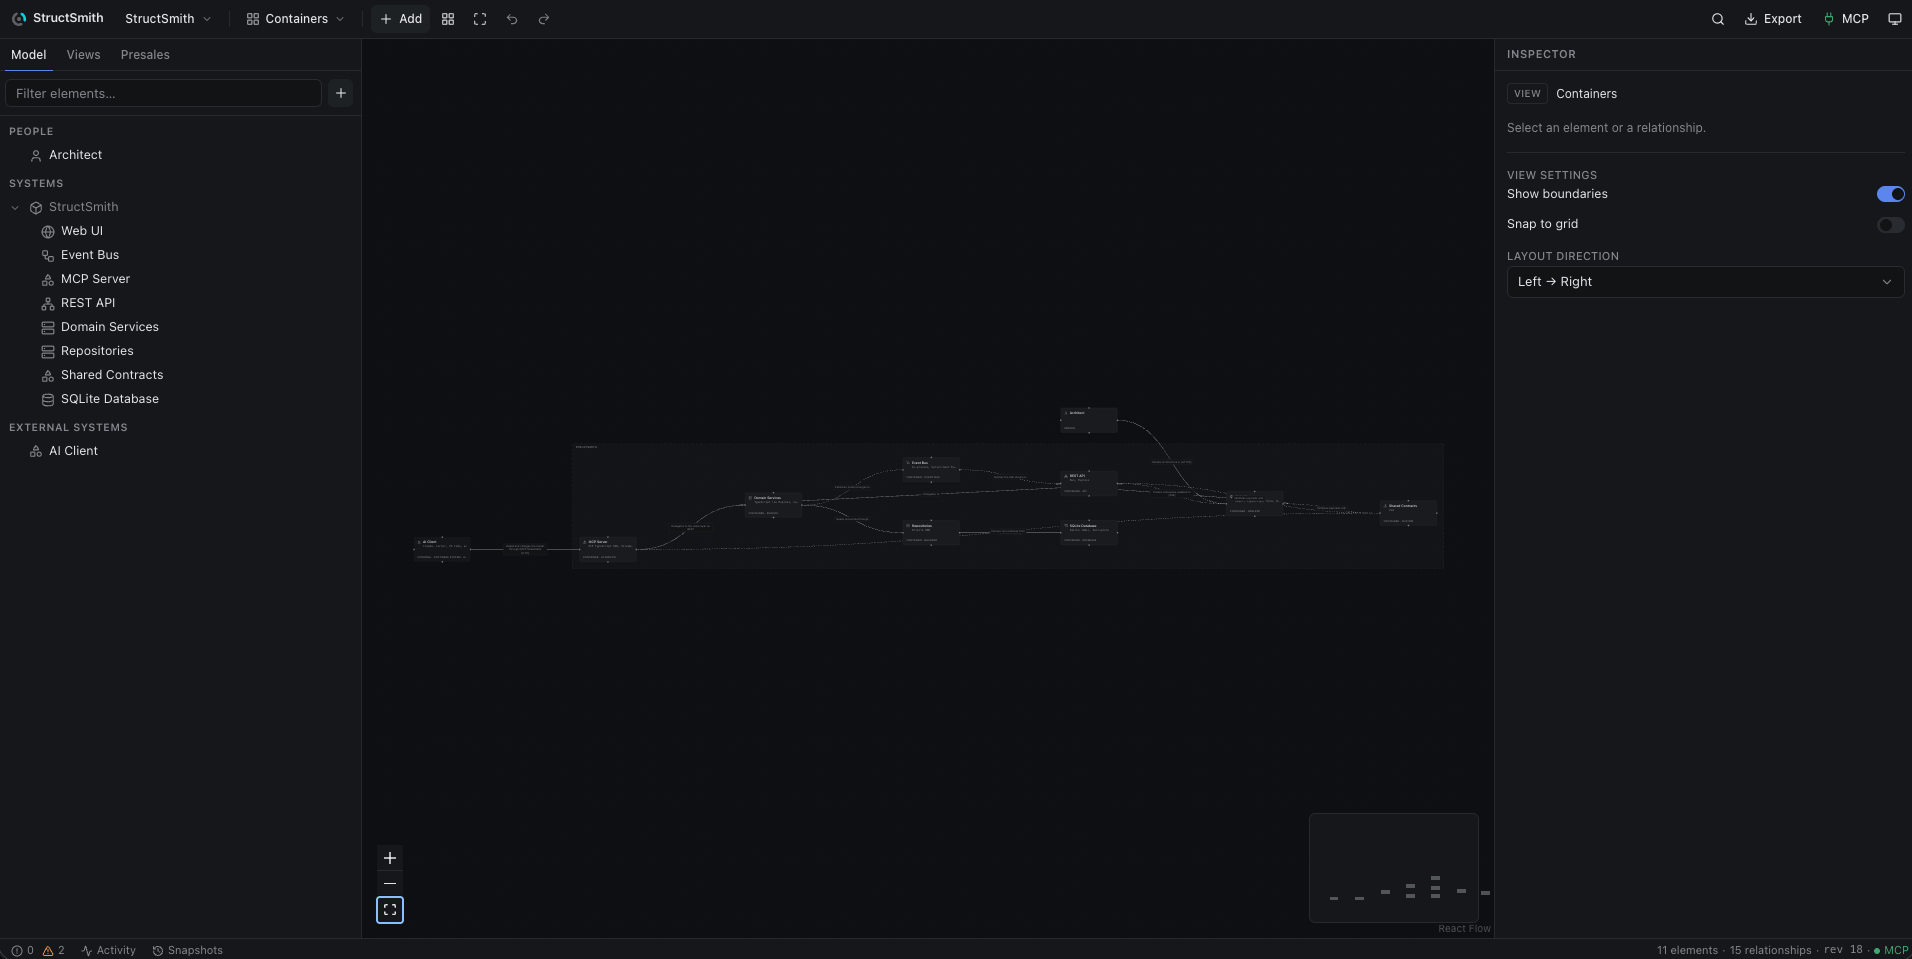
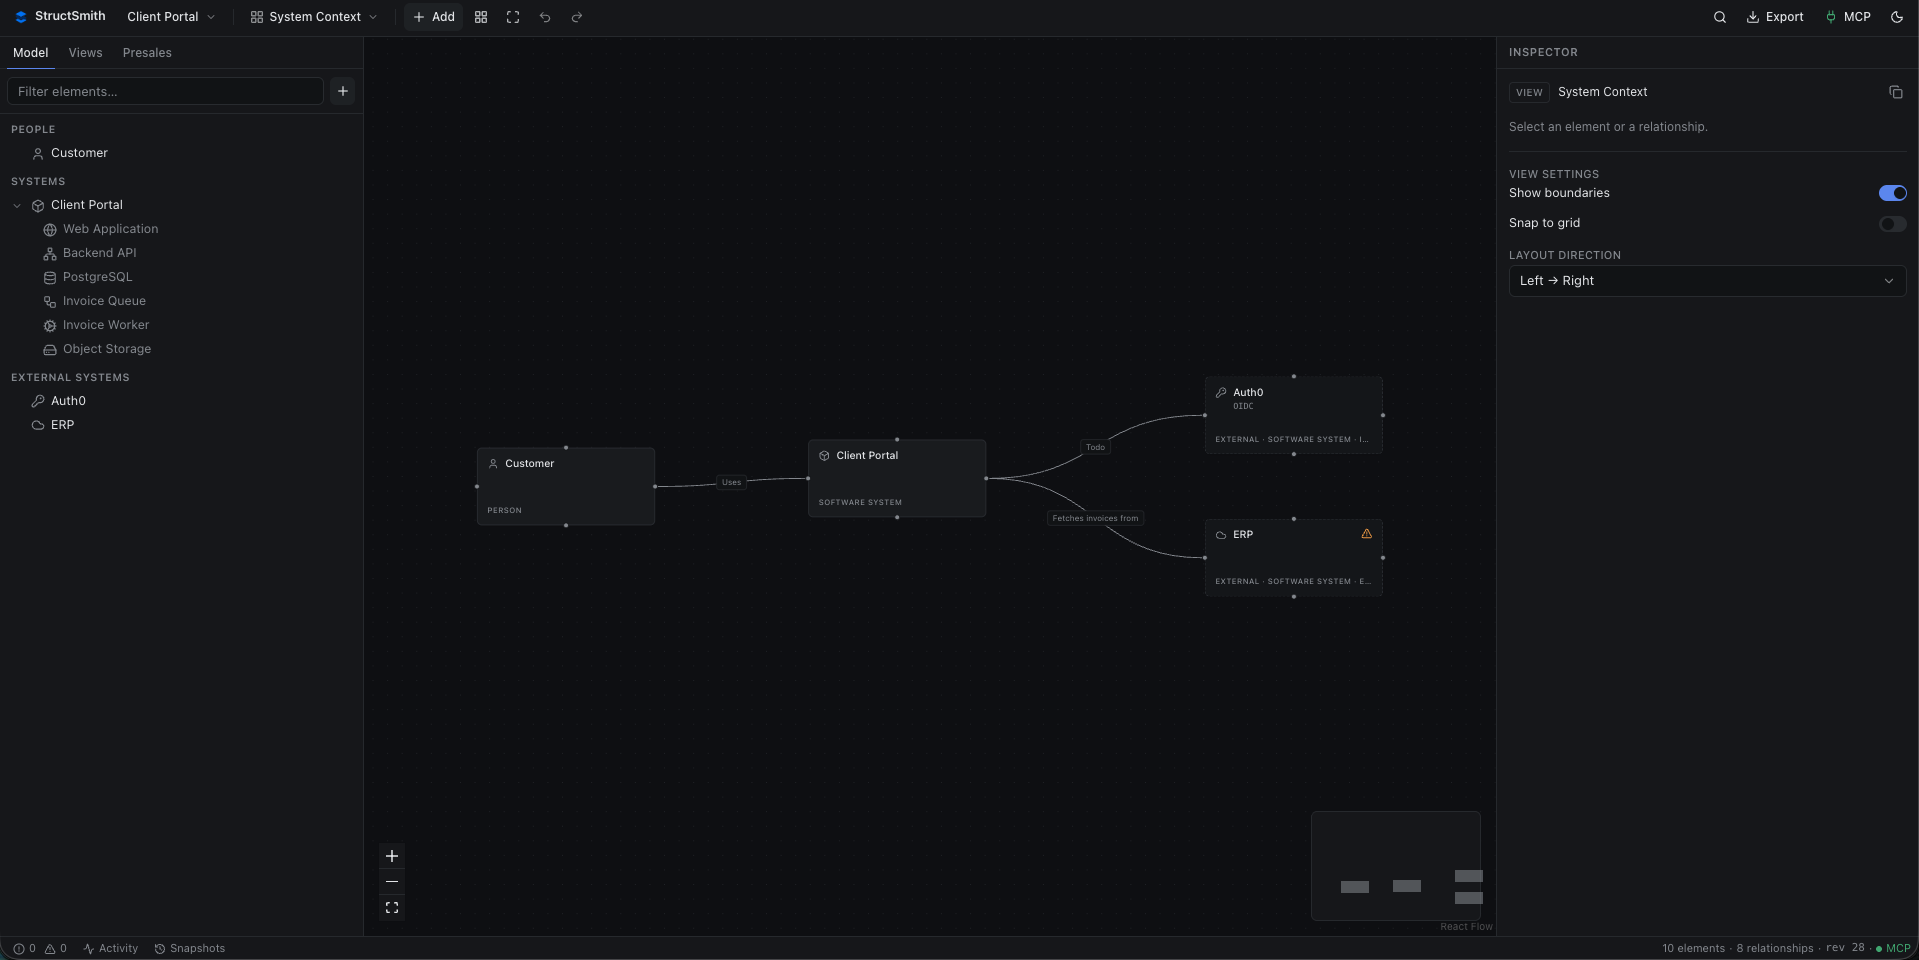
feat: refresh branding and backfill changelog

diff --git a/apps/web/src/components/Logo.tsx b/apps/web/src/components/Logo.tsx
@@ -1,62 +1,13 @@
-import { useId } from "react";
 import { cn } from "@/lib/utils";
 
-/**
- * The StructSmith mark. Same geometry as `public/logo.svg`, but the pale arc
- * uses `currentColor` so the mark stays legible on both themes; the accent arc
- * keeps the brand gradient. `pathLength="360"` lets the two arcs be positioned
- * by angle in degrees.
- */
 export function Logo({ className, size = 20 }: { className?: string; size?: number }) {
-  const gradientId = useId();
-
   return (
-    <svg
-      viewBox="0 0 128 128"
+    <img
+      src="/logo.png"
       width={size}
       height={size}
-      role="img"
-      aria-label="StructSmith"
-      className={cn("shrink-0", className)}
-    >
-      <defs>
-        <linearGradient
-          id={gradientId}
-          x1="74"
-          y1="10"
-          x2="118"
-          y2="96"
-          gradientUnits="userSpaceOnUse"
-        >
-          <stop offset="0" stopColor="#0FC6F8" />
-          <stop offset=".62" stopColor="#22E4CD" />
-          <stop offset="1" stopColor="#00BDFB" />
-        </linearGradient>
-      </defs>
-
-      <g fill="none" strokeWidth="21" strokeLinecap="round">
-        <circle
-          cx="64"
-          cy="64"
-          r="46"
-          pathLength="360"
-          stroke="currentColor"
-          opacity="0.35"
-          strokeDasharray="178 182"
-          strokeDashoffset="-62"
-        />
-        <circle
-          cx="64"
-          cy="64"
-          r="46"
-          pathLength="360"
-          stroke={`url(#${gradientId})`}
-          strokeDasharray="83 277"
-          strokeDashoffset="68.5"
-        />
-      </g>
-
-      <circle cx="64" cy="64" r="16" fill="currentColor" opacity="0.35" />
-    </svg>
+      alt="StructSmith"
+      className={cn("shrink-0 object-contain", className)}
+    />
   );
 }

diff --git a/tests/branding.test.ts b/tests/branding.test.ts
@@ -1,0 +1,17 @@
+import { expect, test } from "bun:test";
+import { readFile } from "node:fs/promises";
+
+test("the repository and web app use the same StructSmith logo", async () => {
+  const [repositoryLogo, webLogo, readme, html, logoComponent] = await Promise.all([
+    readFile("public/logo.png"),
+    readFile("apps/web/public/logo.png"),
+    readFile("README.md", "utf8"),
+    readFile("apps/web/index.html", "utf8"),
+    readFile("apps/web/src/components/Logo.tsx", "utf8"),
+  ]);
+
+  expect(webLogo.equals(repositoryLogo)).toBe(true);
+  expect(readme).toContain('src="public/logo.png"');
+  expect(html).toContain('type="image/png" href="/logo.png"');
+  expect(logoComponent).toContain('src="/logo.png"');
+});

diff --git a/apps/web/index.html b/apps/web/index.html
@@ -4,8 +4,8 @@
     <meta charset="UTF-8" />
     <meta name="viewport" content="width=device-width, initial-scale=1.0" />
     <meta name="color-scheme" content="light dark" />
-    <link rel="icon" type="image/svg+xml" href="/logo.svg" />
-    <link rel="apple-touch-icon" href="/logo.svg" />
+    <link rel="icon" type="image/png" href="/logo.png" />
+    <link rel="apple-touch-icon" href="/logo.png" />
     <title>StructSmith</title>
   </head>
   <body class="h-full">

diff --git a/CHANGELOG.md b/CHANGELOG.md
@@ -1,40 +1,48 @@
 # Changelog
 
-All notable changes to this project are documented here. The format follows
-[Keep a Changelog](https://keepachangelog.com/en/1.1.0/) and the project uses
-[semantic versioning](https://semver.org/spec/v2.0.0.html).
+## [1.1.1](https://github.com/dziksu/structsmith/compare/v1.1.0...v1.1.1) (2026-09-07)
 
-## [Unreleased]
+### Bug Fixes
 
-### Changed
+- **release:** align changelog writer with preset
+  ([25b15fd](https://github.com/dziksu/structsmith/commit/25b15fd992c190a960eeb929c19ecdbd938b6095))
 
-- Automate GitHub releases and versioned GHCR images with semantic-release after
-  successful CI on main; derive release versions from Conventional Commits and
-  stamp the same version into the built application without bot commits
-- Upgrade Drizzle ORM to 0.45.2 and Lucide React to the 1.x line (locked to
-  1.41.0); verify SQLite persistence and icon rendering with regression tests
-- Upgrade i18next/react-i18next together to 26.4.1/17.0.13, tailwind-merge to
-  3.6.0 for Tailwind 4, Dagre to 3.1.1, and Zod to 4.5.4 across all workspaces
-- Upgrade React and React DOM together to 19.2.8, Express to 5.2.1, Sonner to
-  2.0.8, and react-resizable-panels to 4.12.3; regenerate the Bun lockfile
-- Upgrade the development toolchain, including Vite 8 and TypeScript 7
+### Build and Dependencies
 
-### Fixed
+- **deps-dev:** bump conventional-changelog-conventionalcommits
+  ([3f892f3](https://github.com/dziksu/structsmith/commit/3f892f37dd597c8223d30ec776cc840756655784))
 
-- Preserve omitted view settings in Zod 4 partial updates and use one compatible
-  Zod version for the application and MCP SDK; cover translations, layout,
-  utility merging, and MCP schema validation with regression tests
-- Adapt the editor to the new panel API while preserving percentage-based sizes
-- Update Express route parameter validation and TypeScript path/CSS declarations
-- Report HTTP listen errors and exit unsuccessfully when the server cannot bind
-  its port under Express 5
-- Use Bun-aware Dependabot updates and group React/React DOM and Express/type
-  packages so dependency updates include the lockfile and compatible pairs
-- Correct public setup instructions and the Compose image name, include the
-  license in the container, and exclude local environment files and databases
-  from Git and Docker build contexts
+## [1.1.0](https://github.com/dziksu/structsmith/compare/v1.0.1...v1.1.0) (2026-09-07)
 
-## [0.1.0] - 2026-09-04
+### Features
+
+- Add copyable architecture references
+  ([761b806](https://github.com/dziksu/structsmith/commit/761b806d3145199192e1c7a39cd854757d353ab8))
+- Add workspace editing and deletion
+  ([fe0b913](https://github.com/dziksu/structsmith/commit/fe0b9131ef9ee6595951caf968e52ab713323118))
+- **mcp:** add agent-first modeling workflow
+  ([dd405c7](https://github.com/dziksu/structsmith/commit/dd405c7db80ee0f8c2c496397313de6548624a21))
+
+## [1.0.1](https://github.com/dziksu/structsmith/compare/v1.0.0...v1.0.1) (2026-09-07)
+
+### Build and Dependencies
+
+- **deps:** bump actions/setup-node from 6 to 7
+  ([33fbf1e](https://github.com/dziksu/structsmith/commit/33fbf1e9035bf8d2371a5cda48e9feef8c401e31))
+
+## 1.0.0 (2026-09-04)
+
+### Features
+
+- Automate releases with semantic-release
+  ([f67f42e](https://github.com/dziksu/structsmith/commit/f67f42eb738f43c16b4da9ed2b2e68930d3f8c38))
+
+### Bug Fixes
+
+- Migrate Zod, i18n and layout dependencies
+  ([f9ee743](https://github.com/dziksu/structsmith/commit/f9ee743530e7dcfa098bab055632444ef0b05e6b))
+
+## 0.1.0 (2026-09-04)
 
 First public release.
 
@@ -54,6 +62,3 @@ First public release.
 - English and Polish UI, light/dark/system themes
 - Single-container Docker image, compose file, and GitHub Actions for CI and
   multi-architecture images
-
-[Unreleased]: https://github.com/dziksu/structsmith/compare/v0.1.0...HEAD
-[0.1.0]: https://github.com/dziksu/structsmith/releases/tag/v0.1.0

diff --git a/README.md b/README.md
@@ -16,7 +16,8 @@
 </p>
 
 <p align="center">
-  <img src="public/screen_02.png" alt="StructSmith editor: model tree, canvas and inspector" width="900">
+  <img src="public/screen_01.png" alt="StructSmith system context view in dark mode" width="900">
+  <img src="public/screen_02.png" alt="StructSmith container view in light mode" width="900">
 </p>
 
 A local-first, open-source tool for modelling software architecture — a self-hosted
